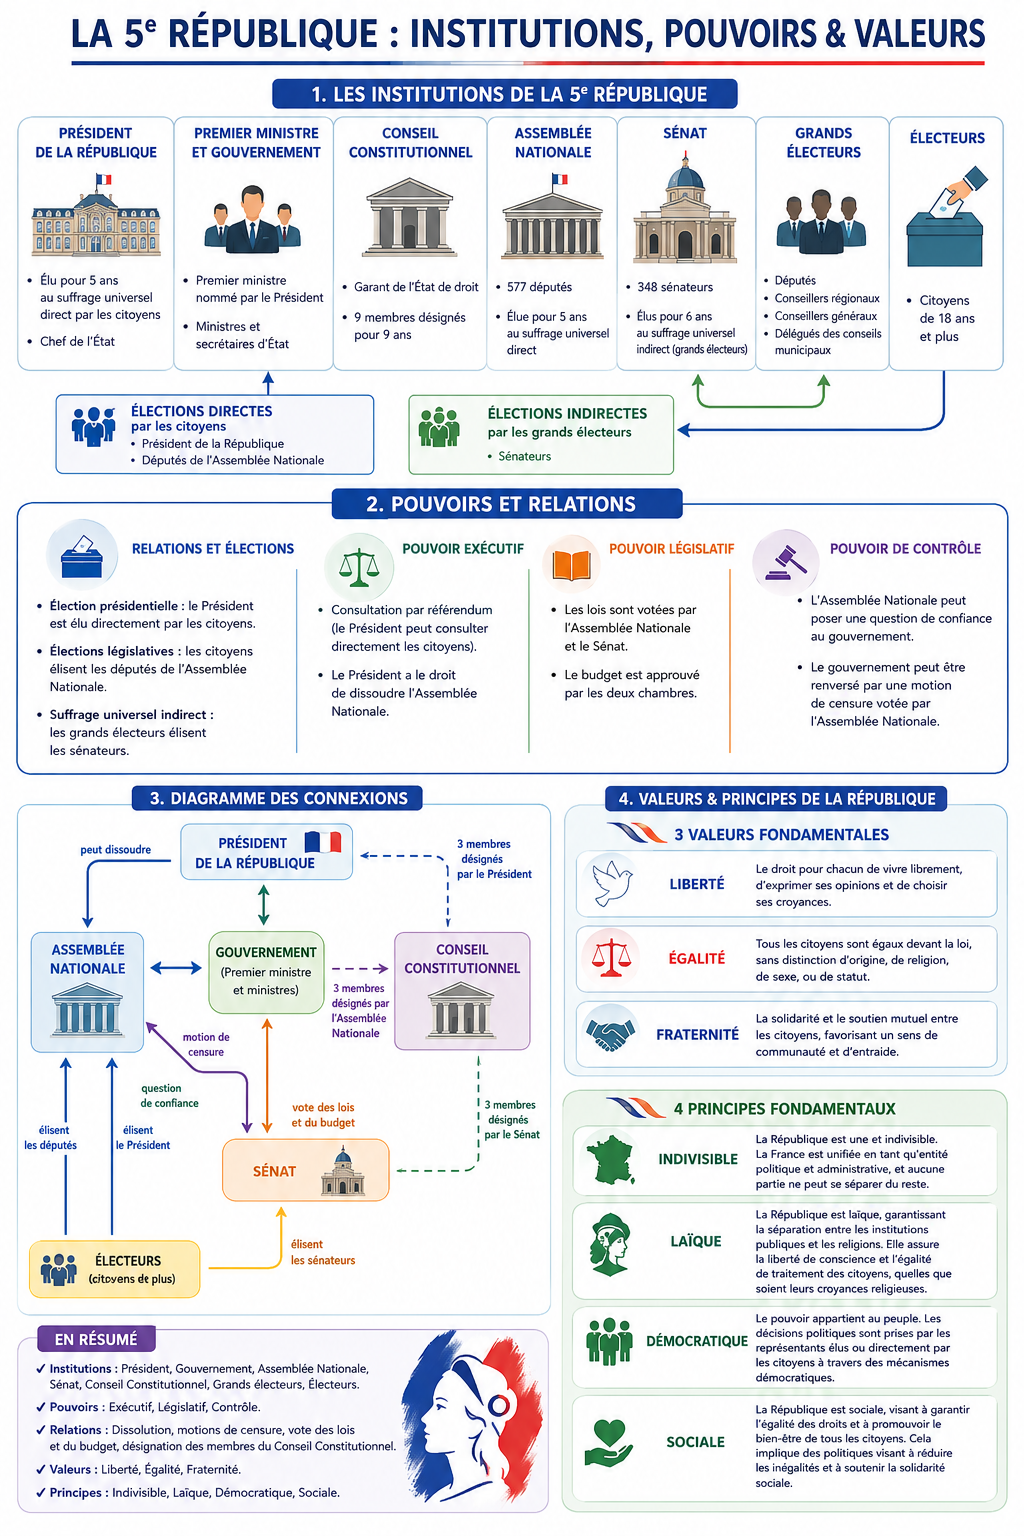
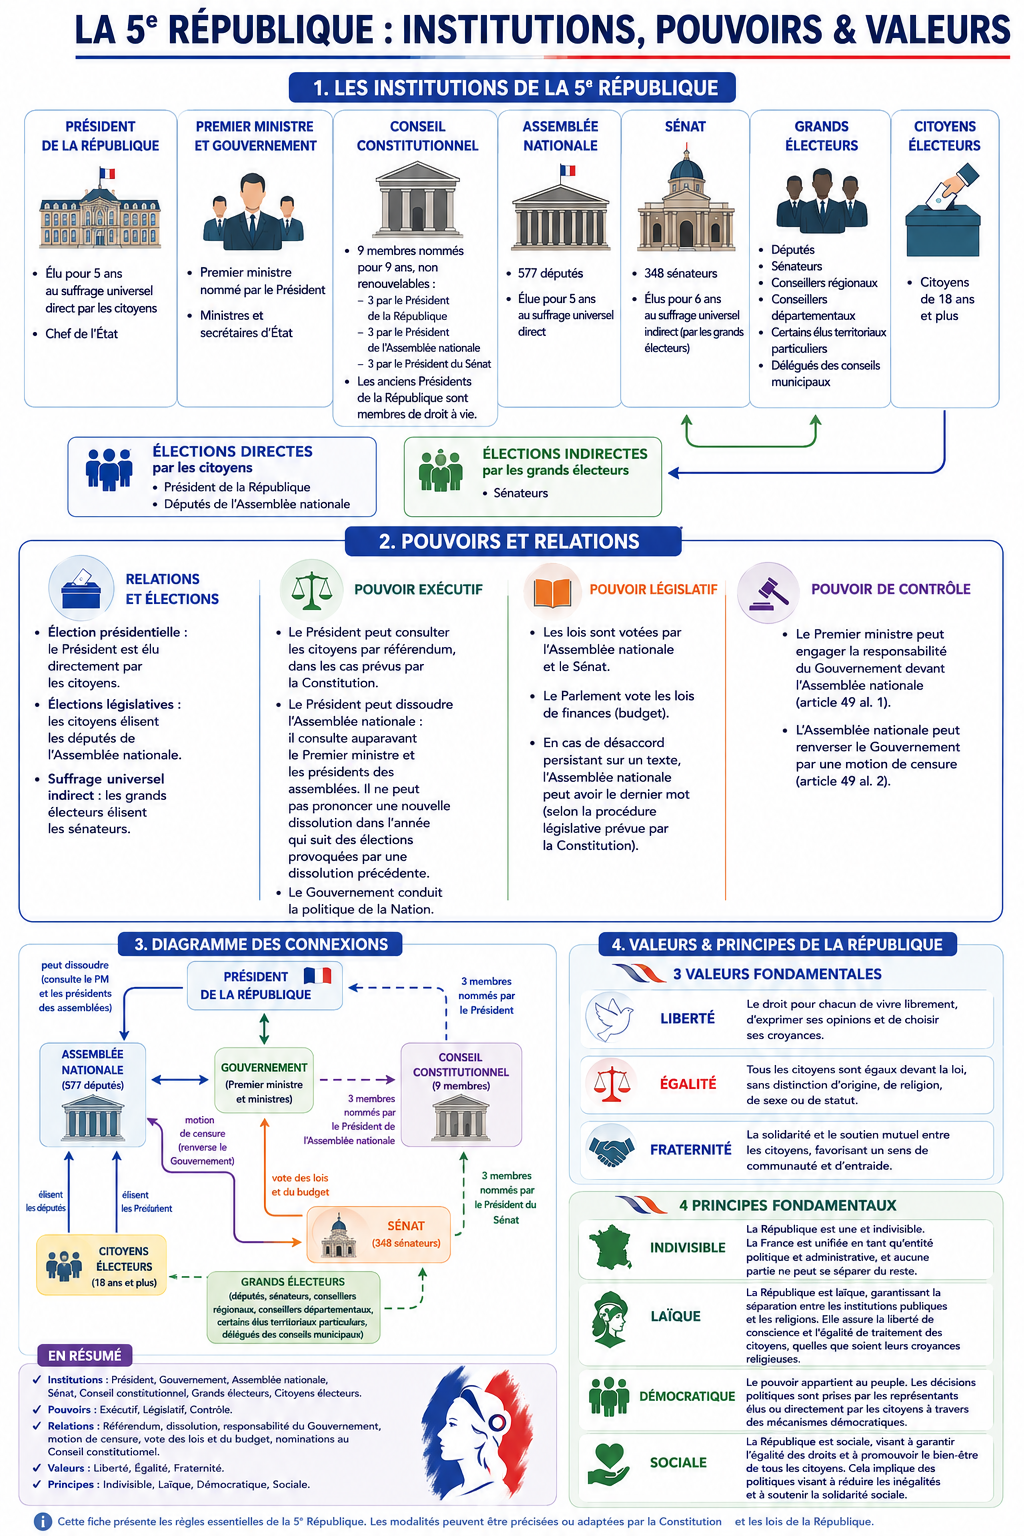
fix: illustration

diff --git a/src/App.jsx b/src/App.jsx
@@ -1762,6 +1762,31 @@ Les devoirs comprennent le respect des lois, le paiement des impôts, la partici
     r: "Je respecterais la décision et je chercherais à comprendre les raisons du refus pour m'améliorer. Je continuerais à m'intégrer pleinement, car mon attachement à la France va au-delà de l'obtention de la nationalité.",
     astuce: "Réponse humble, résiliente et attachée à la France.",
   },
+  // Illustrations
+    {
+    id: 243,
+    cat: "Illustration",
+    q: "institutions pouvoirs valeurs",
+    r: "institutions pouvoirs valeurs.",
+    image: "/images/institutions_pouvoirs_valeurs.png",
+    astuce: "A dessiner.",
+  },
+      {
+    id: 244,
+    cat: "Illustration",
+    q: "institutions collectivités",
+    r: "institutions collectivités.",
+    image: "/images/institutions_collectivités.png",
+    astuce: "A dessiner.",
+  },
+       {
+    id: 245,
+    cat: "Illustration",
+    q: "valeurs symboles",
+    r: "valeurs symboles",
+    image: "/images/valeurs_symboles _repères_historiques.png",
+    astuce: "A dessiner.",
+  } 
 ];
 
 function shuffleArray(list) {